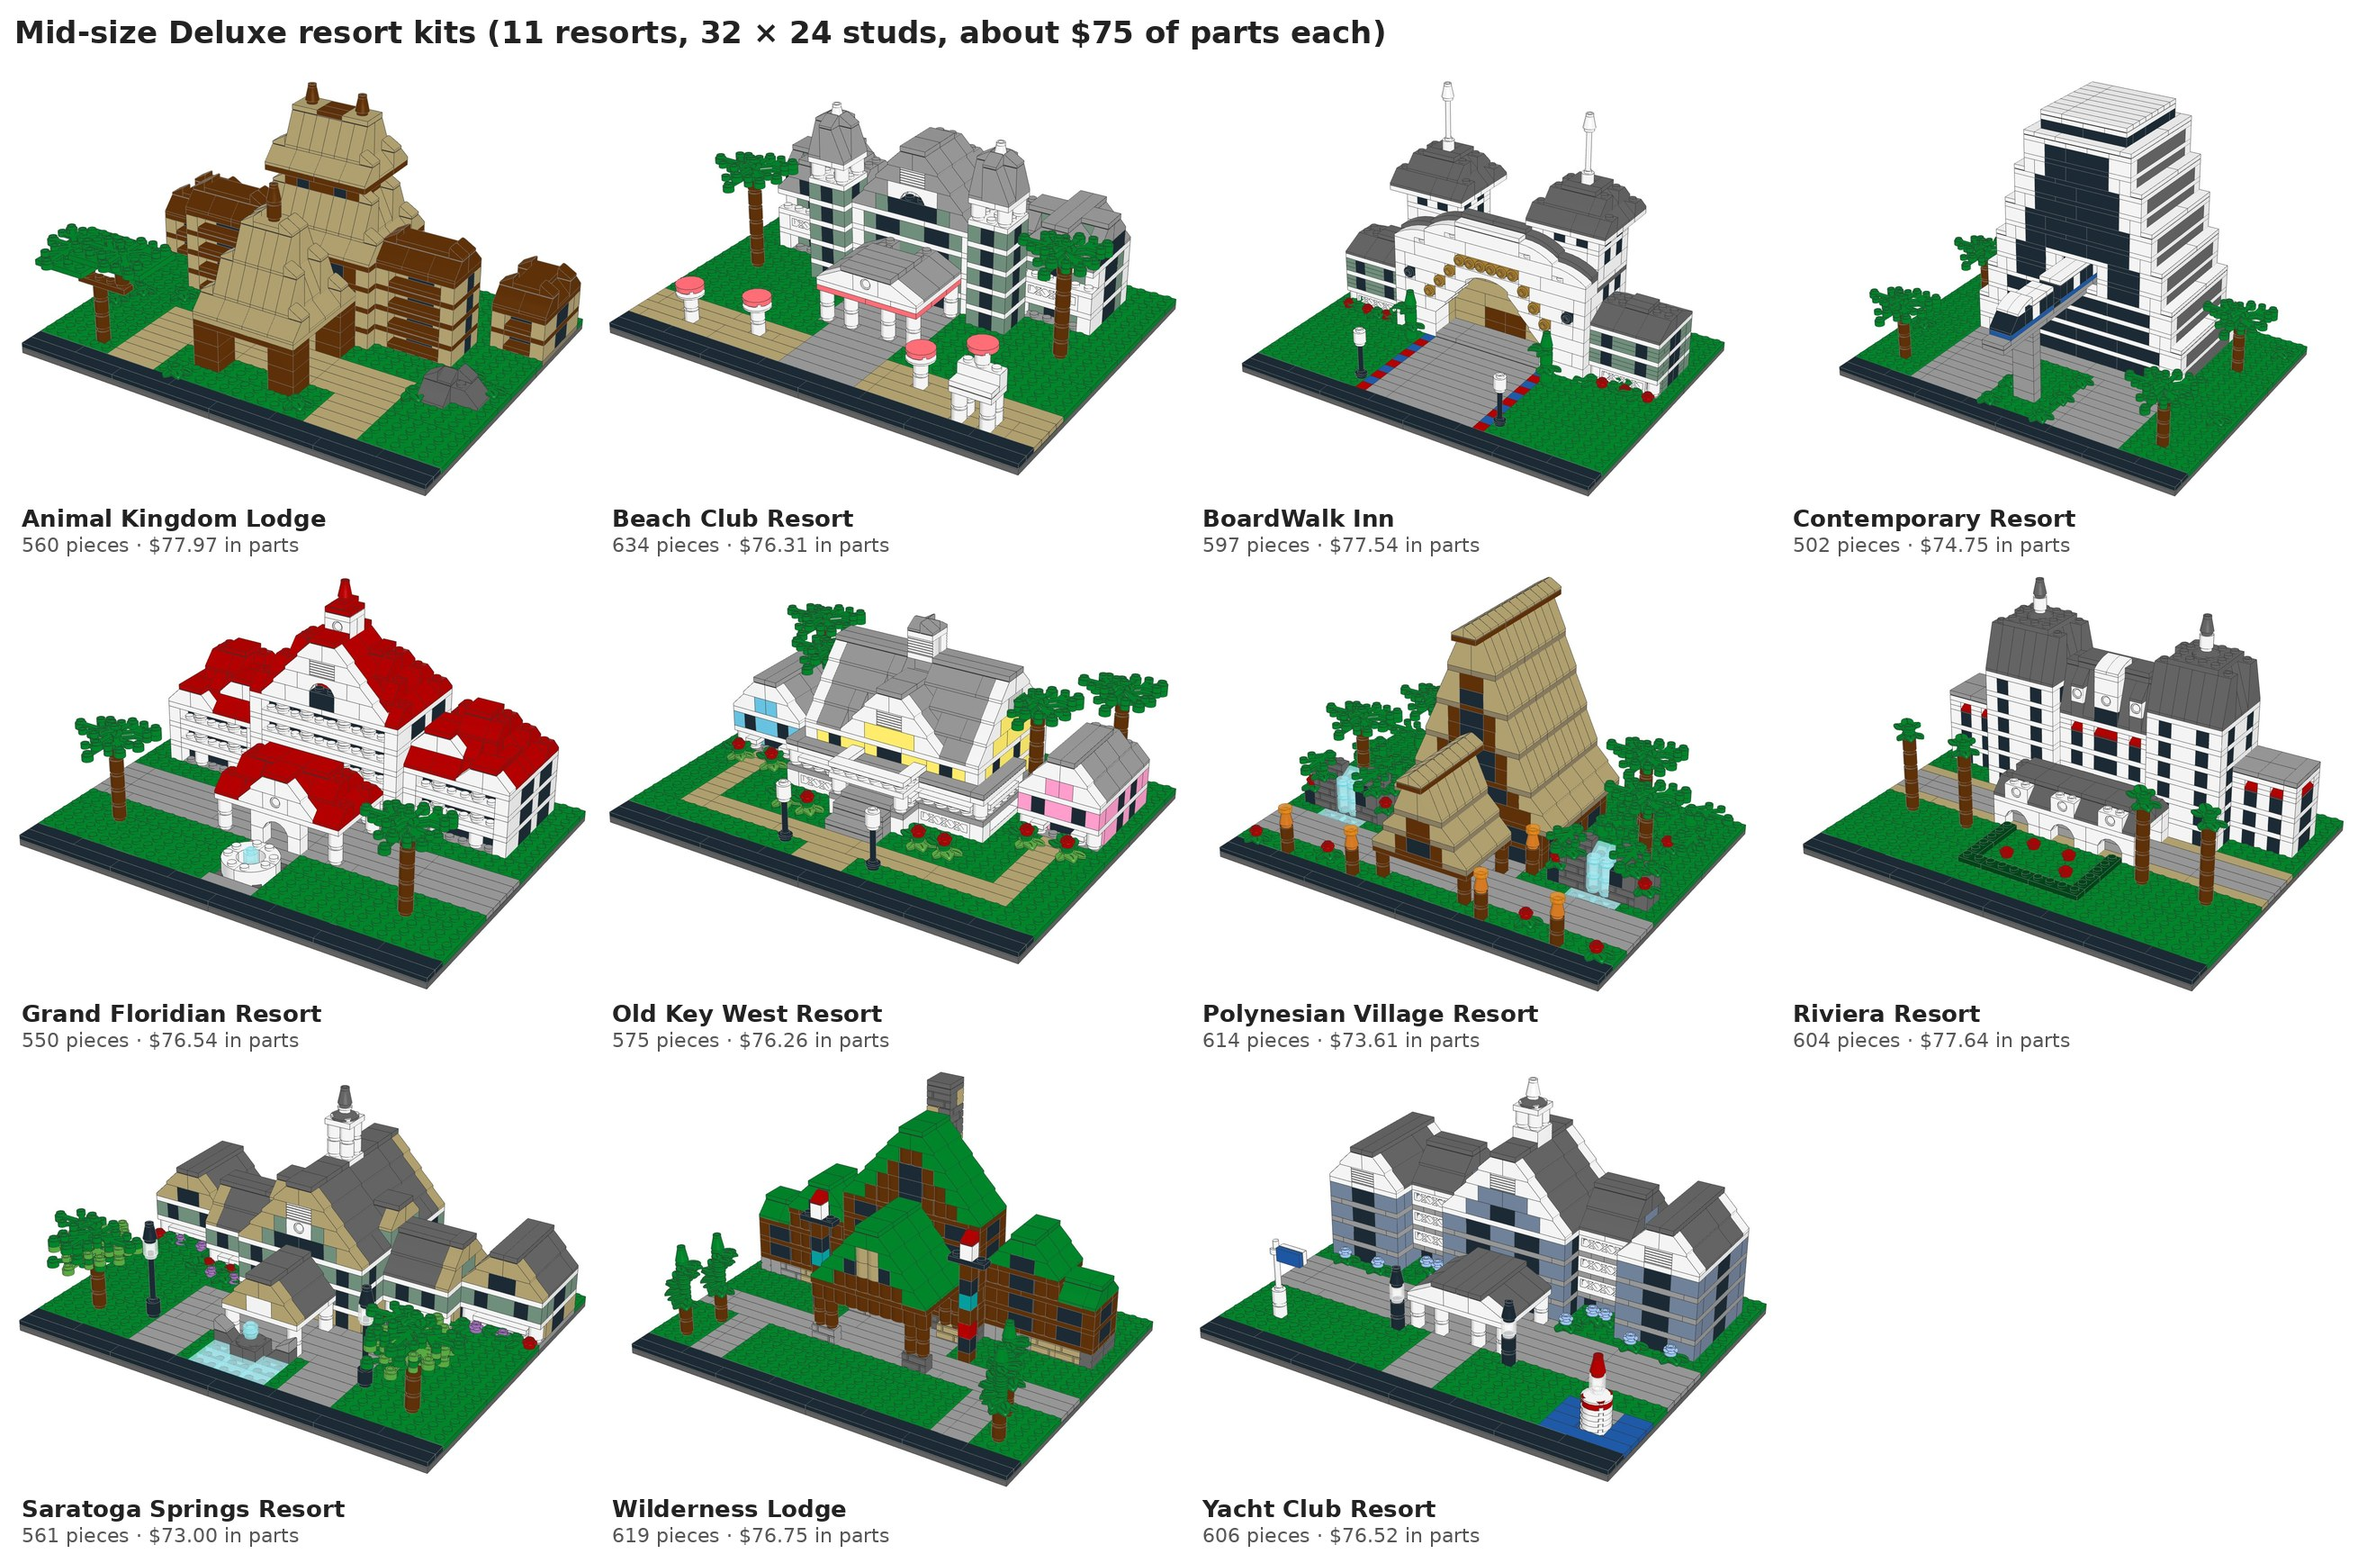
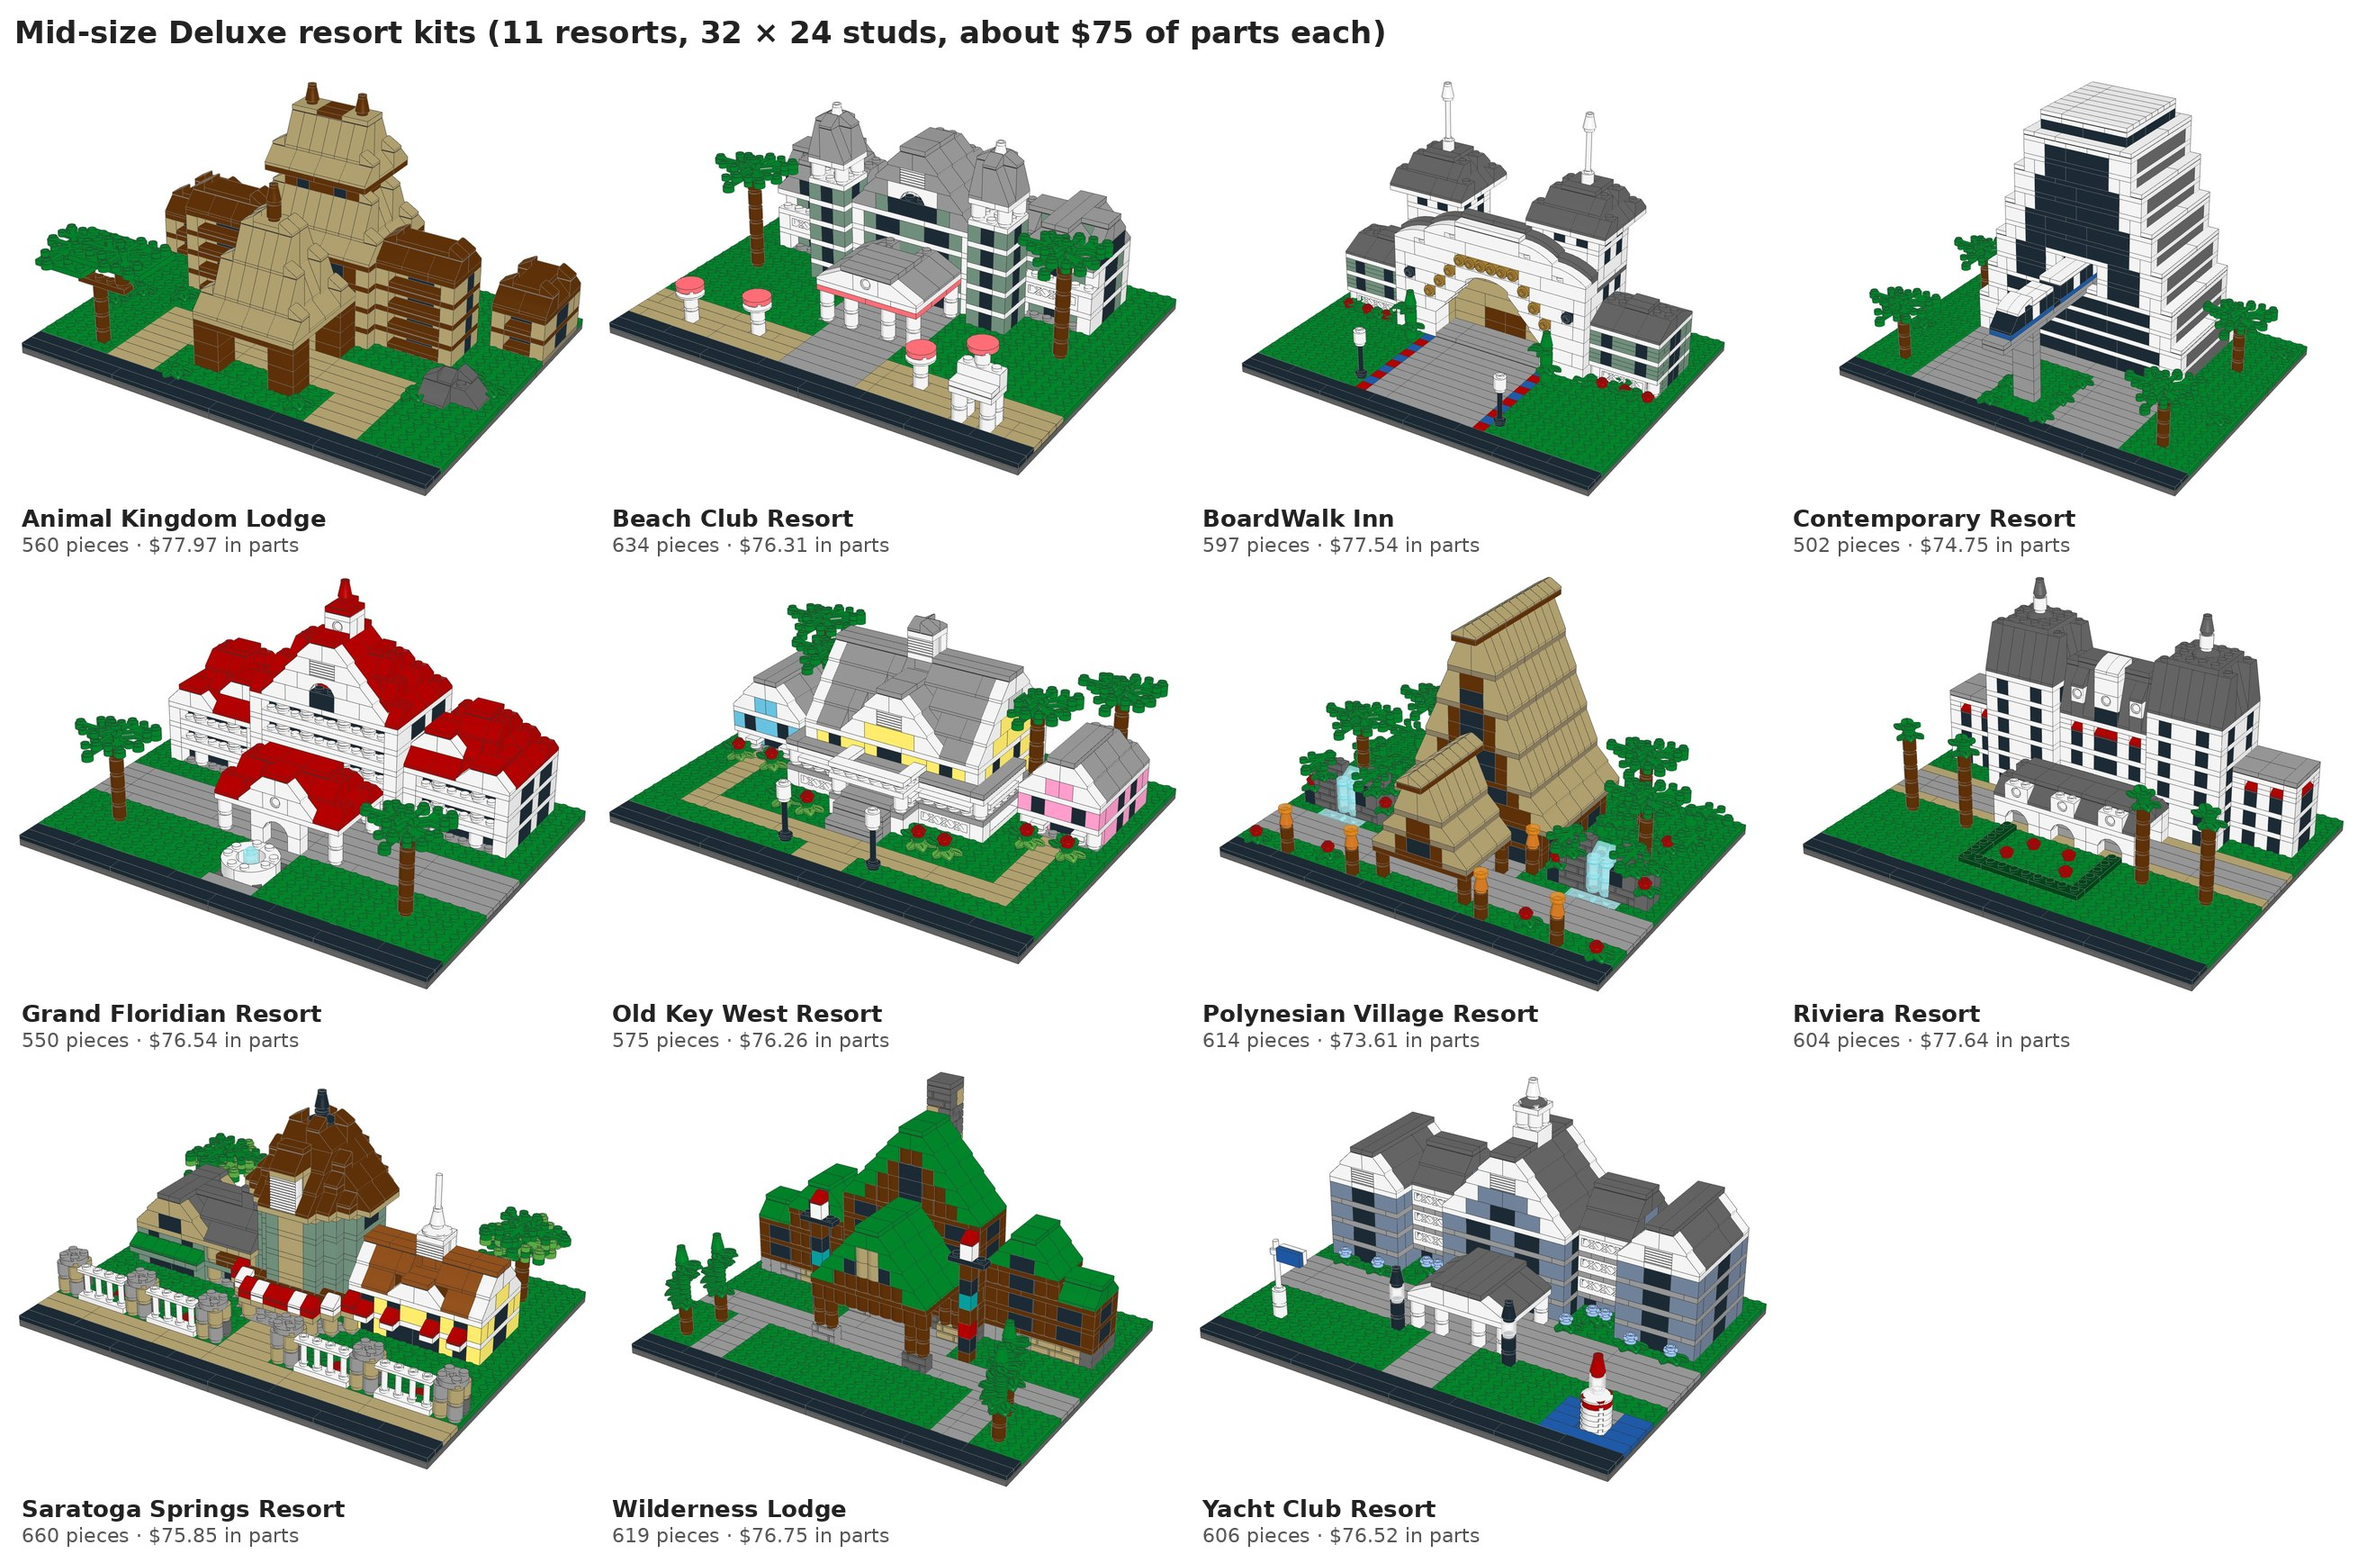
Refresh the collection report and overview for the rebuilt Saratoga Springs
Claude-Session: https://claude.ai/code/session_01N4umsxUnBivmqGf9DQ1DMa

Changed region(s): [[0.0, 0.6843, 0.2485, 0.9643]]

diff --git a/resort-collection/README.md b/resort-collection/README.md
@@ -230,7 +230,7 @@ verandas and more storeys. Folders are named `<resort>-midsize-lego`.
 | [Old Key West Resort](../old-key-west-midsize-lego/README.md) | 575 | 64 | $76.26 | $83.89 | $106.07 | $117.71 | $169.99 | $47.32 / 28% | $56.82 / 33% | 22 | 225 pieces, $33.95 |
 | [Polynesian Village Resort](../polynesian-midsize-lego/README.md) | 614 | 51 | $73.61 | $80.97 | $103.65 | $115.02 | $169.99 | $49.74 / 29% | $59.25 / 35% | 10 | 238 pieces, $33.23 |
 | [Riviera Resort](../riviera-midsize-lego/README.md) | 604 | 66 | $77.64 | $85.40 | $107.95 | $119.78 | $179.99 | $54.49 / 30% | $63.99 / 36% | 12 | 364 pieces, $43.70 |
-| [Saratoga Springs Resort](../saratoga-springs-midsize-lego/README.md) | 561 | 70 | $73.00 | $80.30 | $102.31 | $113.55 | $169.99 | $51.08 / 30% | $60.58 / 36% | 20 | 271 pieces, $34.82 |
+| [Saratoga Springs Resort](../saratoga-springs-midsize-lego/README.md) | 660 | 87 | $75.85 | $83.44 | $106.69 | $118.38 | $169.99 | $46.71 / 27% | $56.21 / 33% | 22 | 271 pieces, $34.82 |
 | [Wilderness Lodge](../wilderness-lodge-midsize-lego/README.md) | 619 | 53 | $76.75 | $84.43 | $107.16 | $118.91 | $169.99 | $46.23 / 27% | $55.73 / 33% | 14 | 416 pieces, $53.45 |
 | [Yacht Club Resort](../yacht-club-midsize-lego/README.md) | 606 | 60 | $76.52 | $84.17 | $106.75 | $118.45 | $169.99 | $46.64 / 27% | $56.15 / 33% | 7 | 319 pieces, $41.79 |
 <!-- midsize:end -->
